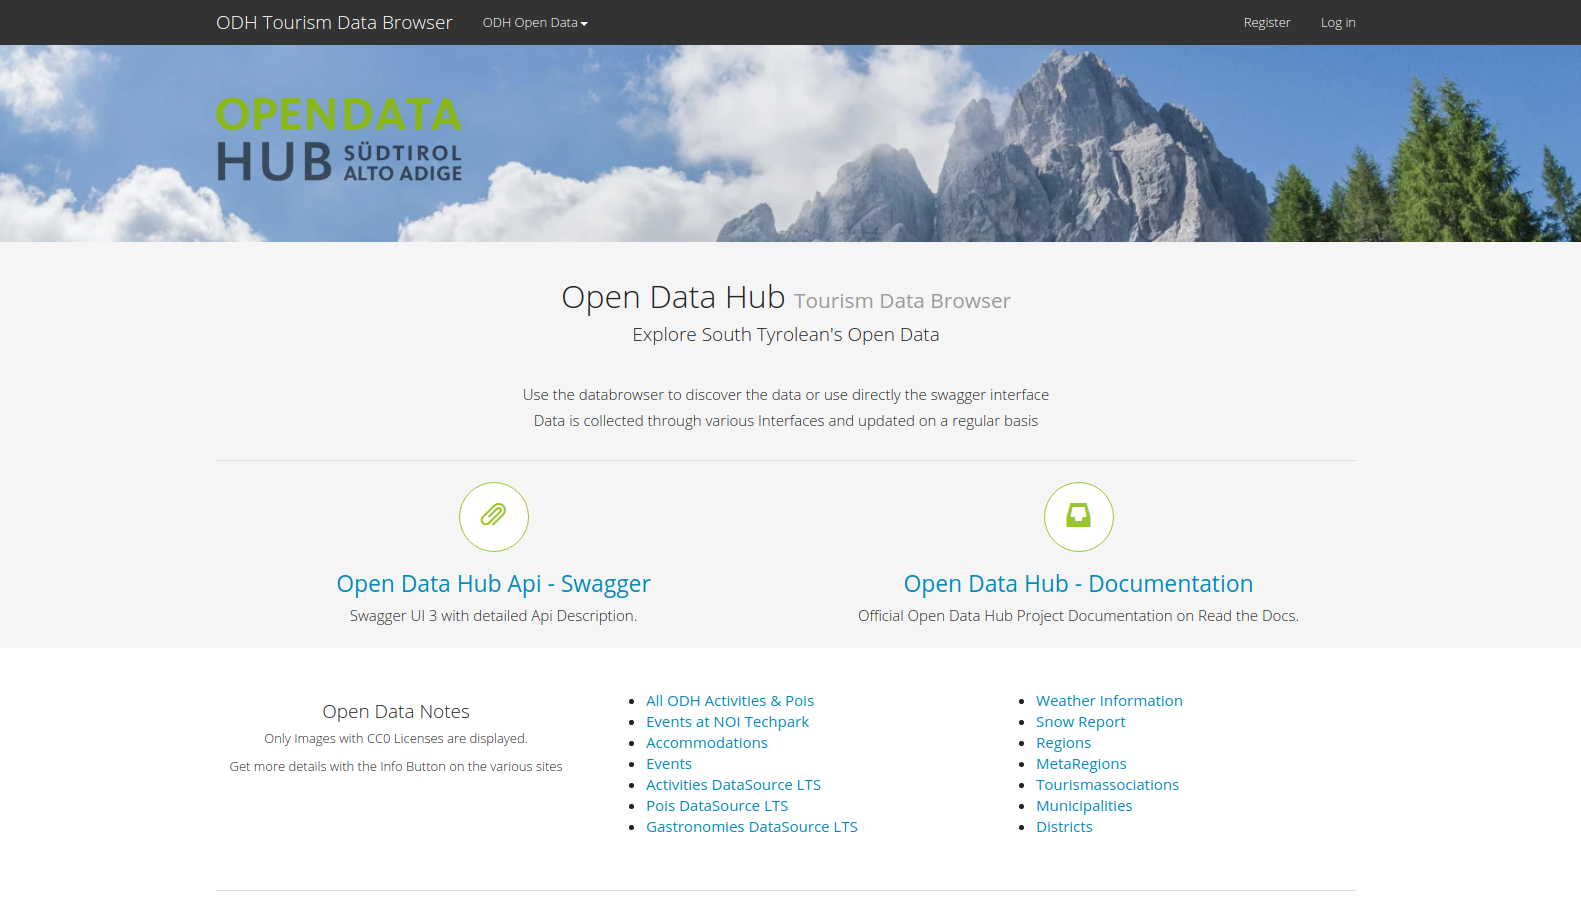
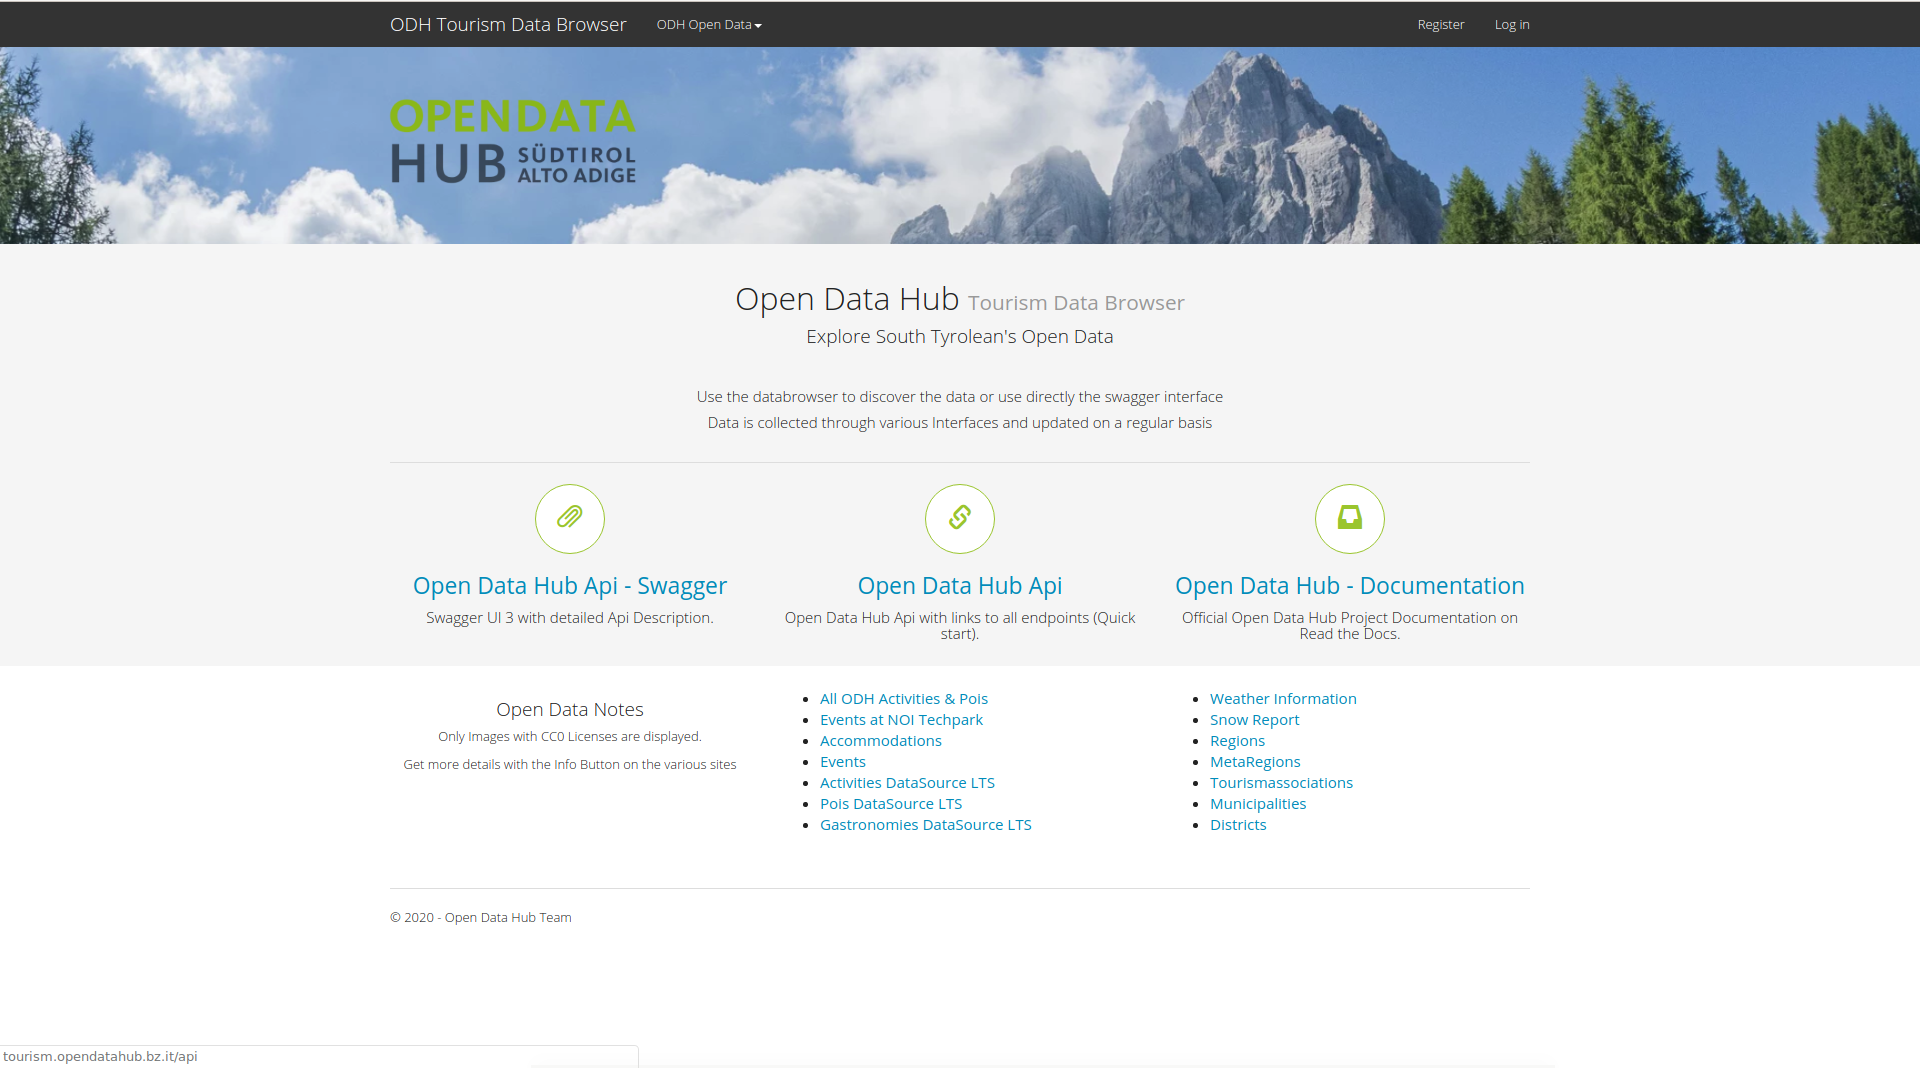
added description of Open Data Hub API - #102

diff --git a/source/howto/tourism/browse.rst b/source/howto/tourism/browse.rst
@@ -20,12 +20,25 @@ and point it to http://tourism.opendatahub.bz.it/.
 
    The home page of the Tourism Data Browser.
 
-Under the header and an informative message, two icons and hyperlink
-in the centre of the page allow to reach the `Swagger interface
-<http://tourism.opendatahub.bz.it/swagger/ui/index>`_, the quickest place from
-where to access the datasets and learn how to programmatically
-retrieve the data, and the `Official documentation
-<https://opendatahub.readthedocs.io/en/latest/index.html>`_.
+Under the header and an informative message, hyperlinks in the centre
+of the page allow to open various resources about the Tourism domain.
+
+* The `Swagger interface
+  <http://tourism.opendatahub.bz.it/swagger/ui/index>`_ of the
+  datasets, the quickest place from where to access the datasets and
+  learn how to programmatically retrieve the data
+* The `Open Data Hub API <http://tourism.opendatahub.bz.it/api>`_ , a
+  browsable, hyperlinked interface over the data in the Tourism
+  domain.
+
+  .. note:: Depending on the browser used to access the APIs, an
+     extension might by needed for the JSON to be properly displayed
+     and browsed. For example, on Chrome you should install
+     https://github.com/callumlocke/json-formatter.
+
+* The `Official documentation
+  <https://opendatahub.readthedocs.io/en/latest/index.html>`_ of the
+  Open Data Hub project
 
 The bar at the top of the page allows to carry out a few actions:
 
